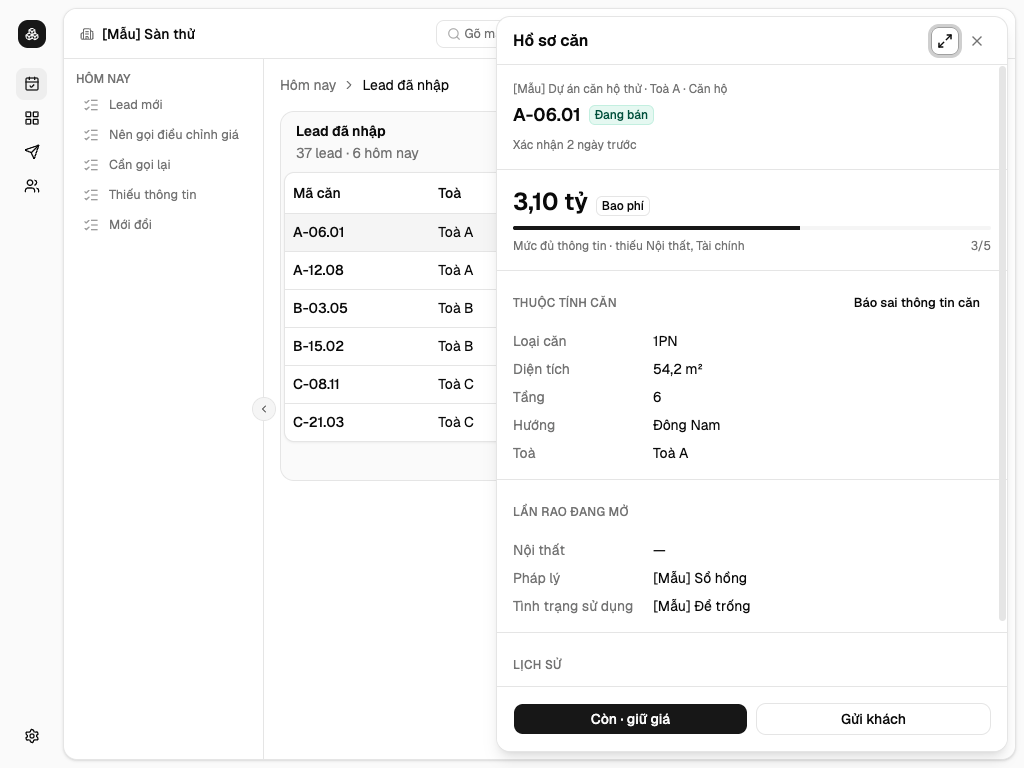
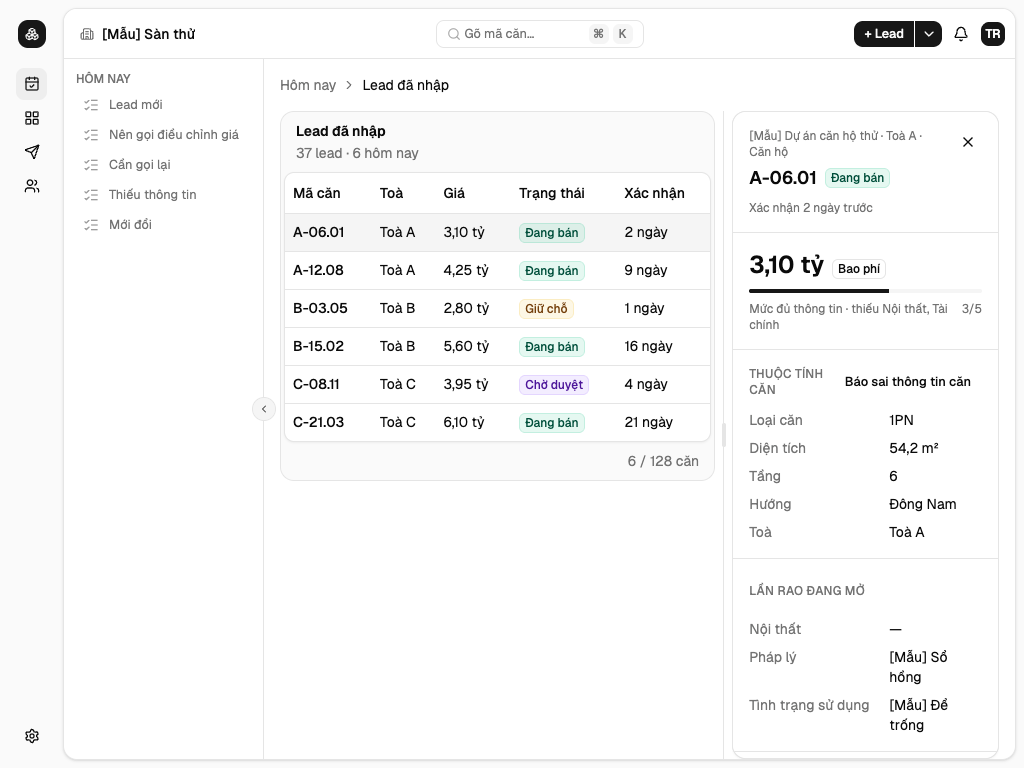
docs(bang-hang-danh-sach-chi-tiet): ảnh màn thật của lượt thi công, ảnh chuẩn Danh sách – chi tiết chụp lại
Ảnh và dòng JSON của lượt chạy E1–E4, E6, E7, E10 (cùng chiều đỏ E3 --dung-lai)
trên chỗ thử dãy D ở evidence/. Ảnh chuẩn danh-sach-chi-tiet 1440, 1024,
1440 tối chụp lại từ trang mẫu sống (cột kéo chia thay ngăn nổi; 375 không
đổi), ke.json ghi commit. Dòng catalog @reui/app-shell-11 trỏ ảnh màn thật
evidence/E1-1440.png.

diff --git a/.agents/skills/quy-hang-ui/catalog.md b/.agents/skills/quy-hang-ui/catalog.md
@@ -90,7 +90,7 @@ chuyển thể một khối mà bảng chưa có dòng.
 | `@reui/solution-users-8` | Frame stack | cai-dat-san | `apps/web/src/components/khoi/solution-users-8/` (`team-access.tsx`, `people-tab.tsx`, `zones-tab.tsx`, `member-dialog.tsx`, `value-faces.tsx`, `data.ts`, `columns.ts`, `icons.tsx`), `apps/web/src/app/(app)/settings/users/quan-nguoi.tsx` | Cài đặt sàn › Người dùng (hàng 7, chuyển ở hàng 91) | `design/anh-chuan/doc-1440.png` | reui skill 68f0e6fa91 | 2026-11-02 · Manh Phan · he-bo-cuc | Giữ khung TeamAccess (đầu khối đếm + nút mời, Tabs line có số đếm, AlertDialog xác nhận, TooltipProvider), Section Frame + dòng Item có vạch ngăn, ô tìm, nút biểu tượng có gợi ý, hộp mời; gỡ `max-w-6xl` và `<main min-h-svh>`; tab People → Thành viên (nhiều vai thành nhãn, vùng ở cột trạng thái, chọn vai → hộp sửa vai + vùng bằng ô tích); tab Alerts → Vùng (danh sách + thêm vùng); hộp mời một email, ô tích vai và vùng, không loại Member/Guest; bỏ khách, lời mời chờ, ghế, xuất CSV, ma trận cảnh báo, dữ liệu demo, Skeleton, sonner; trống, tìm không ra, lỗi qua `TrangThai` |
 | `@reui/solution-crm-5` | Frame stack | trang-mau | `apps/web/src/components/khoi/solution-crm-5/` (`activity-timeline.tsx`, `data.tsx`) | Bố cục Dòng tin và thân Hồ sơ (hàng 91) | `design/anh-chuan/dong-tin-1440.png` | reui skill 68f0e6fa91 | 2026-11-02 · Manh Phan · he-bo-cuc | Chốt kiểu cho `noUncheckedIndexedAccess` (người phụ trách vắng thì không dựng thẻ); gỡ `max-w-2xl` ở gốc; cỡ chữ 10–11px → `text-xs`; màu thô → token; dữ liệu demo giữ tới khi màn thật chuyển |
 | `@reui/sheet-9` | Record detail | trang-mau | `apps/web/src/components/bo-cuc/ngan-noi.tsx` | Ngăn nổi của hệ bố cục — ngăn báo, lọc trên điện thoại, Luồng nhiều bước (hàng 91); Danh sách – chi tiết rời ngăn nổi sang `app-shell-11` (hàng 105) | `design/anh-chuan/danh-sach-chi-tiet-1440.png` | reui skill 68f0e6fa91 | 2026-11-02 · Manh Phan · he-bo-cuc | Giữ vỏ inset (cách mép 1rem, bo góc, `w-[min(32rem,calc(100vw-2rem))]`), đầu ngăn `min-h-12` có viền, thân `ScrollArea`, chân dính đáy; bỏ các dòng sửa tại chỗ của phiếu — thân là hồ sơ dùng chung; thêm kiểu `phuBang` không khoá, không phủ mờ (ghép từ Popup của Base UI) để bảng vẫn bấm được; điện thoại mở `Drawer` từ đáy |
-| `@reui/app-shell-11` | Record detail | bang-hang, ho-so-can, trang-mau | `apps/web/src/components/bo-cuc/cot-keo-chia.tsx` | Cột kéo chia của Danh sách – chi tiết; hồ sơ căn cạnh Bảng hàng (hàng 105, ADR-0024 sửa đổi 05/11) | `docs/design/danh-gia-ngan-chi-tiet-can/so-do-ba-loi.png` | reui skill 68f0e6fa91 | 2026-11-05 · Manh Phan · bang-hang-danh-sach-chi-tiet | Dựng bằng thành phần đã cài (`resizable`), không cài khối; giữ cột chi tiết đứng cạnh, mặc định 38%, kéo 28–50%, thân tối thiểu 35%, tay kéo `withHandle`, cao từ đỉnh vùng làm việc tới đáy; bỏ cột điều hướng, thanh trên, danh sách mẫu và dữ liệu demo của khối (vỏ của kho giữ chúng); ruột cột là hồ sơ `solution-crm-4` đang chạy; nhóm panel luôn dựng để thân không dựng lại; điện thoại không có cột (ngăn từ đáy hay hồ sơ toàn màn) |
+| `@reui/app-shell-11` | Record detail | bang-hang, ho-so-can, trang-mau | `apps/web/src/components/bo-cuc/cot-keo-chia.tsx` | Cột kéo chia của Danh sách – chi tiết; hồ sơ căn cạnh Bảng hàng (hàng 105, ADR-0024 sửa đổi 05/11) | `_acceptance/bang-hang-danh-sach-chi-tiet/evidence/E1-1440.png` | reui skill 68f0e6fa91 | 2026-11-05 · Manh Phan · bang-hang-danh-sach-chi-tiet | Dựng bằng thành phần đã cài (`resizable`), không cài khối; giữ cột chi tiết đứng cạnh, mặc định 38%, kéo 28–50%, thân tối thiểu 35%, tay kéo `withHandle`, cao từ đỉnh vùng làm việc tới đáy; bỏ cột điều hướng, thanh trên, danh sách mẫu và dữ liệu demo của khối (vỏ của kho giữ chúng); ruột cột là hồ sơ `solution-crm-4` đang chạy; nhóm panel luôn dựng để thân không dựng lại; điện thoại không có cột (ngăn từ đáy hay hồ sơ toàn màn) |
 | `@reui/empty-state-1` | Frame stack | trang-thai | `apps/web/src/components/trang-thai.tsx` | Trống · lỗi · báo mọi màn (hàng 91) | `design/anh-chuan/tran-1440.png` | reui skill 68f0e6fa91 | 2026-11-02 · Manh Phan · he-bo-cuc | Chuyển thể vào `TrangThai`: Empty không viền, đầu, mô tả, hàng hành động (`hanhDong`); bỏ hình minh hoạ, dùng biểu tượng lucide nhỏ (vo-va-ia §2) |
 | `@reui/empty-state-2` | Frame stack | trang-thai | `apps/web/src/components/trang-thai.tsx` | Trống vì lọc không ra (hàng 91) | `design/anh-chuan/tran-1440.png` | reui skill 68f0e6fa91 | 2026-11-02 · Manh Phan · he-bo-cuc | Như `empty-state-1`; hành động «Bỏ lọc» thay hàng gợi ý tìm kiếm |
 | `@reui/c-button-group-51` | Inventory Admin | vỏ | `apps/web/src/components/shell/menu-tao.tsx` | Menu Tạo trên thanh trên (hàng 91) | `design/anh-chuan/tran-1440.png` | reui skill 68f0e6fa91 | 2026-11-02 · Manh Phan · he-bo-cuc | «New ▾» → việc tạo theo vai từ `navigationFor`; nút chính là việc tạo đầu của vai; điện thoại thêm nút «+» |
